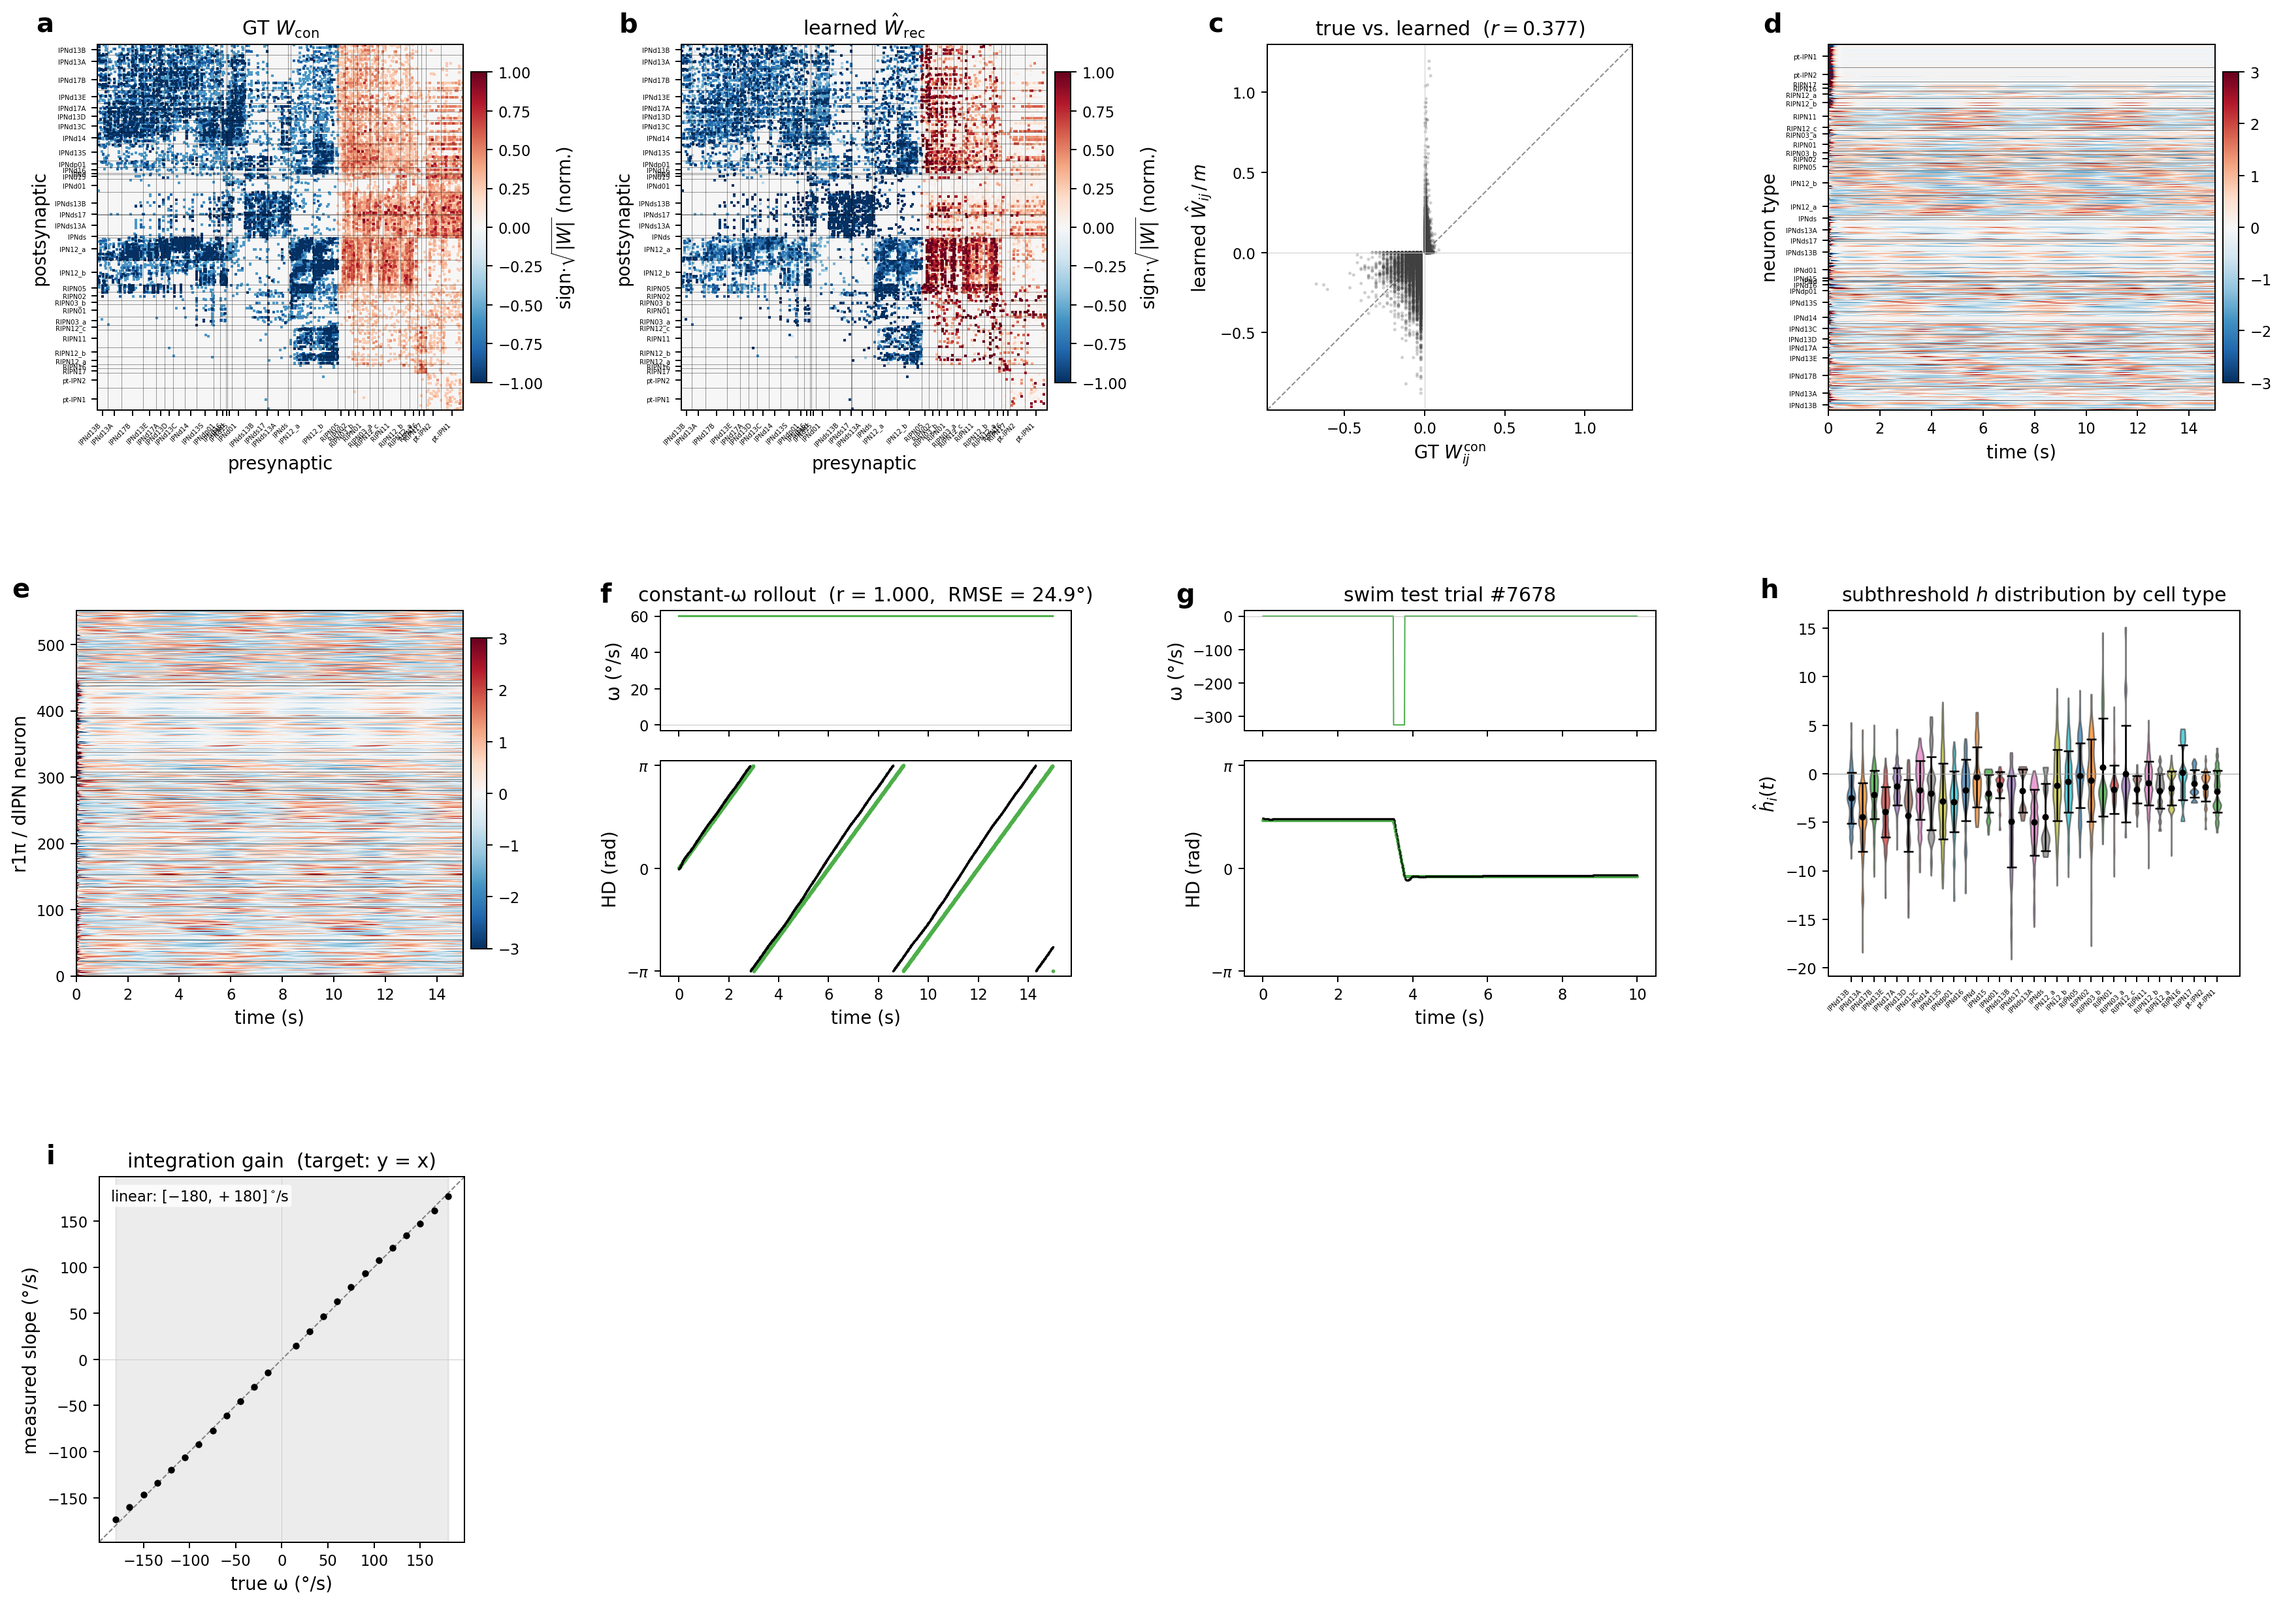
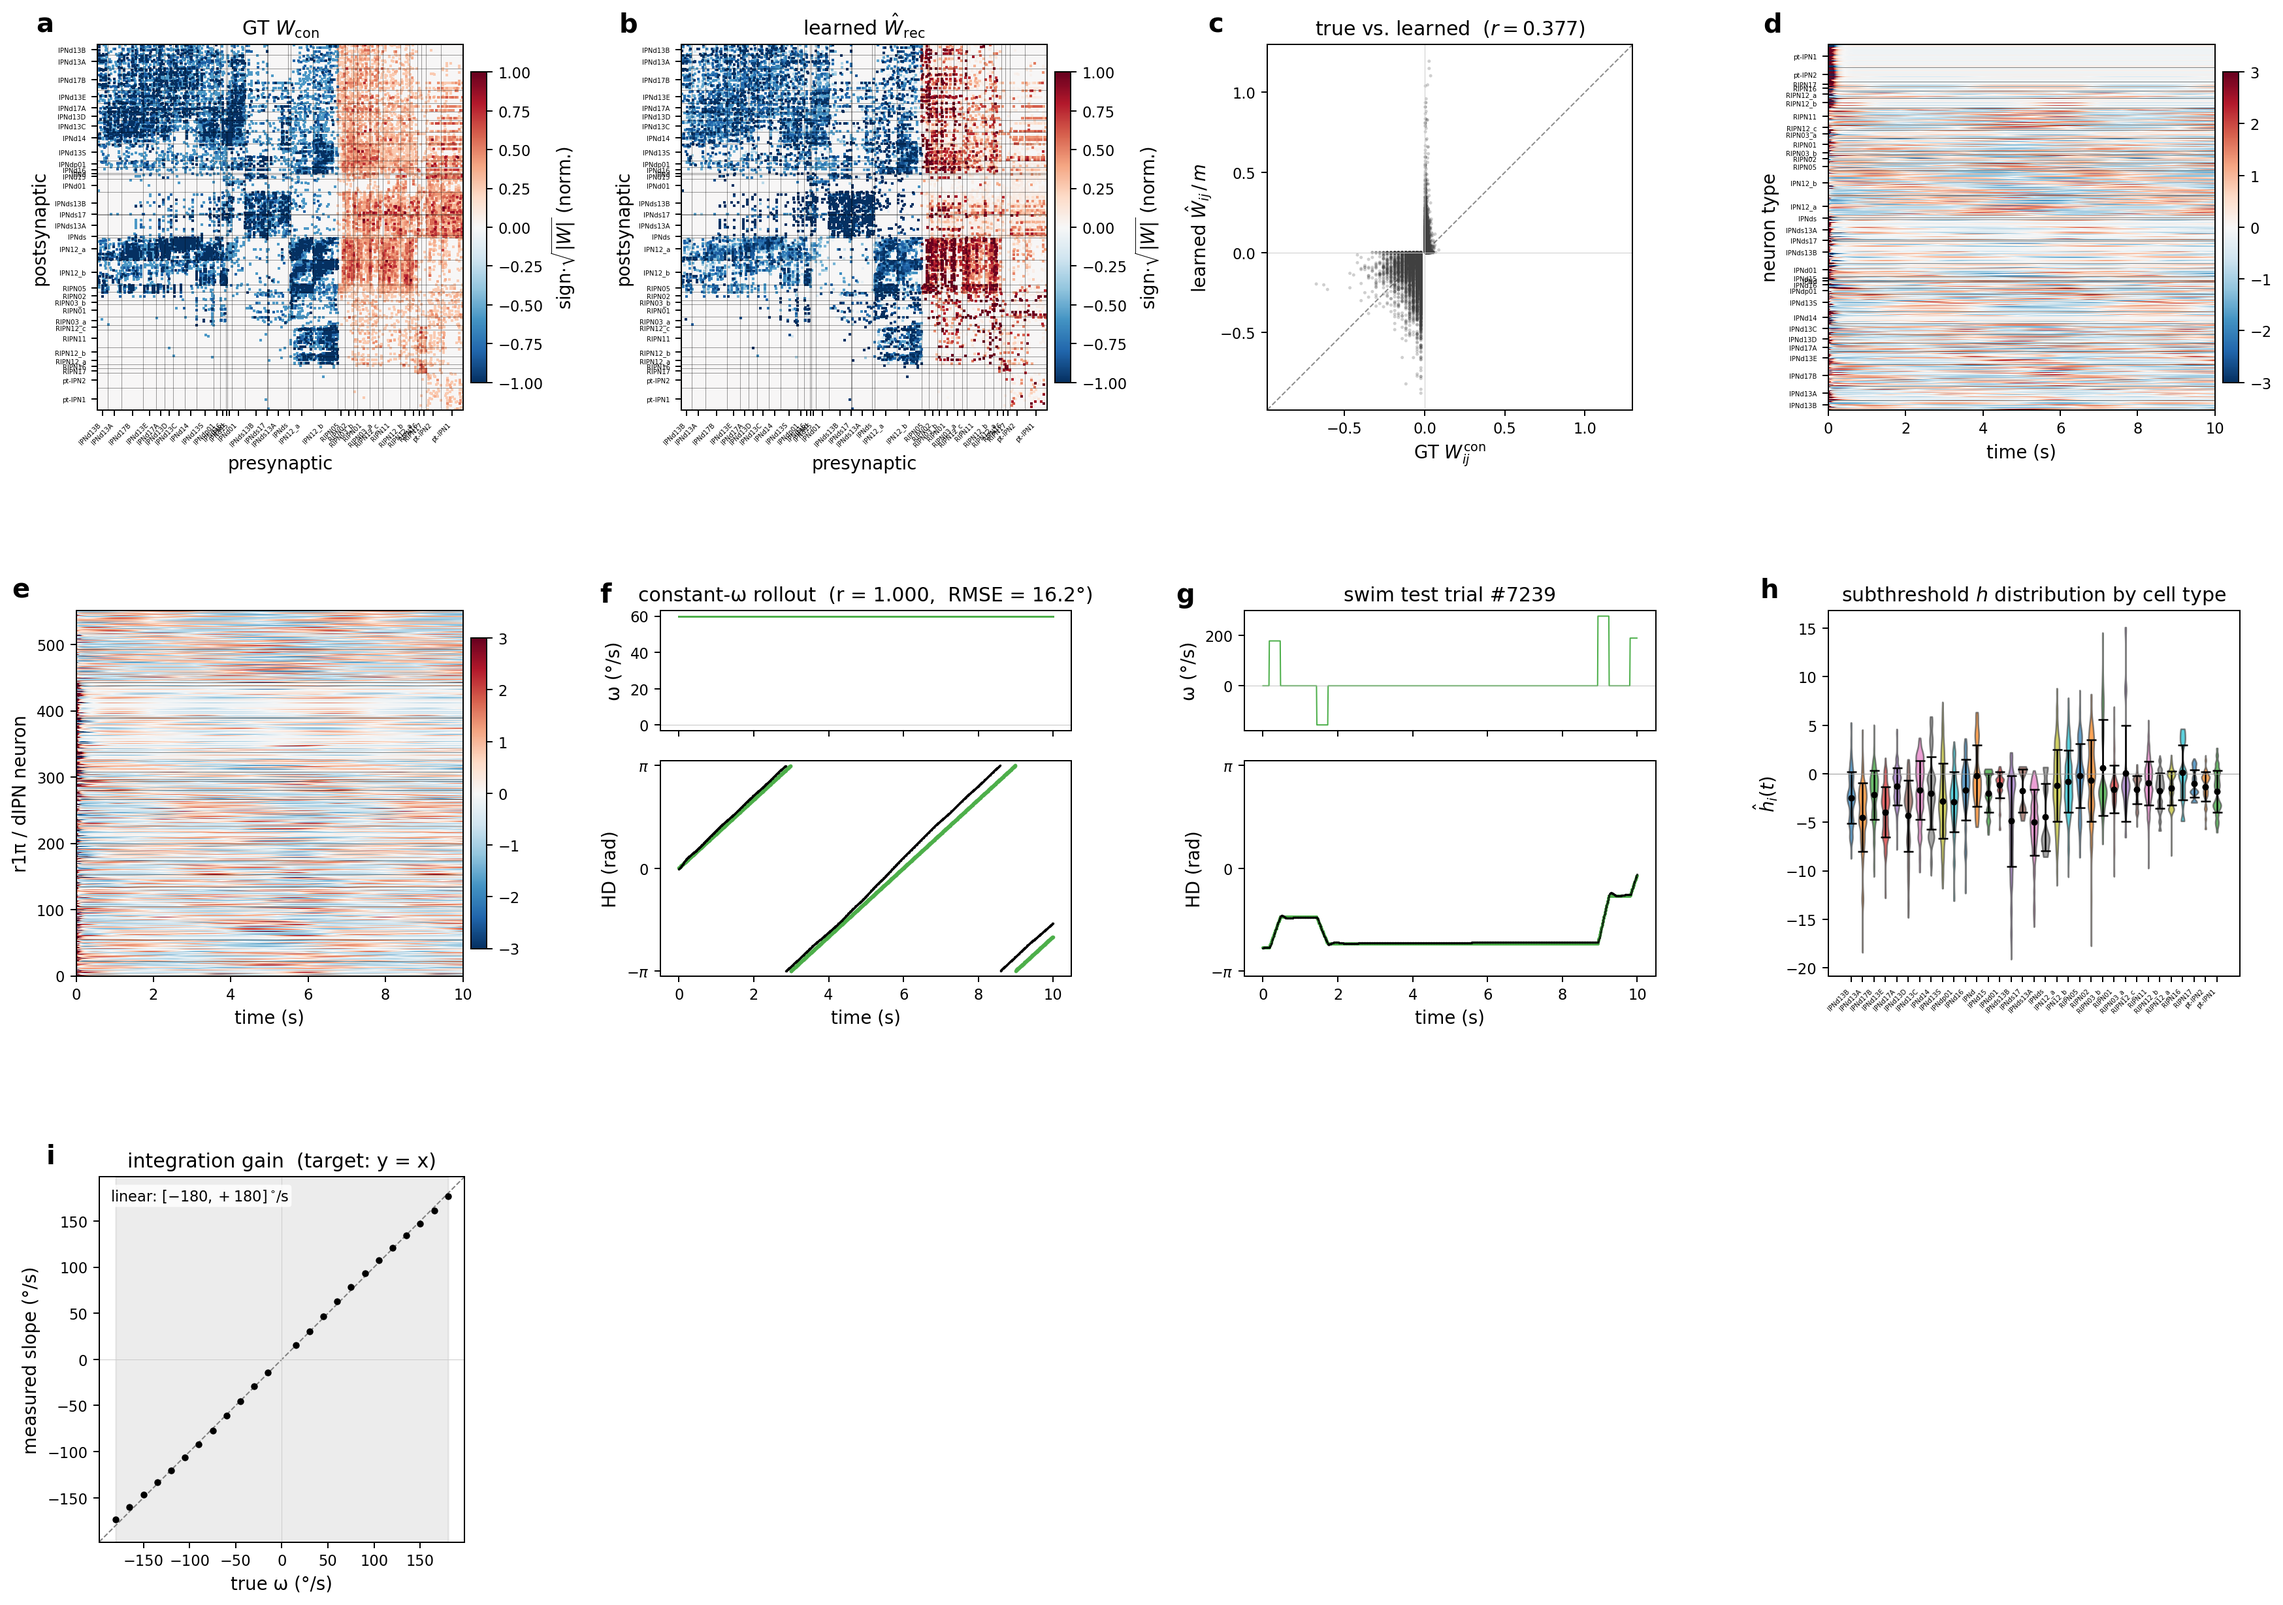
fig_evolution figures: rename ξ → d, match training-time snapshot trial selection
* plot_cx.py: panel g y-axis label switched from ξ to d (both call sites).
* fig_evolution.py: trial selection now samples K=32 candidates and picks the most informative one (max centred |y| amplitude), matching the training-time _build_test_trial in bump_attractor_eval.py — so the standalone figures pick the same example trial the in-training snapshots use (verified: translation picks trial #3875 as in tmp_training/evolution/epoch_7_03125.png).
* fig_evolution_ipn12_artr_pt1.py: default snapshot_n_steps 1500 → 1000, matching the training-time constant-ω rollout horizon.

Note: the rotation variant still picks trial 7239 vs the training-time 7678 — the trainer state at snapshot time appears to advance the RNG differently between iterations; the standalone seed = config.training.seed + 17 matches the training-time formula but not the iteration-specific state. The trial is still the most-informative among 32 candidates.

diff --git a/figures/zebrafish/fig_evolution.py b/figures/zebrafish/fig_evolution.py
@@ -185,10 +185,23 @@ def _load_model_and_rollouts(
             u_test = u_test[..., in_cols]
             y_test = y_test[..., out_cols]
     if trial_idx is None:
+        # Match _build_test_trial used by the training-time snapshot:
+        # sample K=32 candidates and keep the one whose centred target has
+        # the largest column-wise amplitude. Reproduces the trial shown in
+        # tmp_training/evolution/epoch_*.png exactly.
         if trial_seed is None:
             trial_seed = int(getattr(config.training, "seed", 0)) + 17
         rng = np.random.default_rng(trial_seed)
-        trial_idx = int(rng.integers(0, u_test.shape[0]))
+        n_test = u_test.shape[0]
+        K = int(min(32, n_test))
+        cand_idx = np.sort(rng.choice(n_test, size=K, replace=False))
+        y_cand = np.asarray(y_test[cand_idx])
+        if y_cand.size:
+            y_centred = y_cand - y_cand.mean(axis=1, keepdims=True)
+            scores = np.abs(y_centred).max(axis=(1, 2))
+            trial_idx = int(cand_idx[int(np.argmax(scores))])
+        else:
+            trial_idx = int(rng.integers(0, n_test))
     trial_idx = int(trial_idx) % u_test.shape[0]
     u_one = u_test[trial_idx]
     y_true = y_test[trial_idx]

diff --git a/src/connectome_gnn/plot_cx.py b/src/connectome_gnn/plot_cx.py
@@ -1380,7 +1380,7 @@ def _draw_translation_track(ax_drive, ax_track, t_axis, u_col, true_xi,
     )
     ax_track.plot(t_axis, true_xi, color=GT_COLOR, lw=1.2)
     ax_track.plot(t_axis, dec_xi,  color=PRED_COLOR, lw=0.8)
-    ax_track.set_ylabel(r"$\xi$", fontsize=LABEL_FS)
+    ax_track.set_ylabel(r"$d$", fontsize=LABEL_FS)
     ax_track.tick_params(labelsize=TICK_FS)
 
 
@@ -1594,7 +1594,7 @@ def _panel_trial_rollout(fig, subplotspec, test_trial: dict):
             ax_drive.set_title(title_prefix.rstrip(), fontsize=TITLE_FS)
         ax_track.plot(t_axis, y_true[:, xi_col_idx], color=GT_COLOR, lw=1.2)
         ax_track.plot(t_axis, y_pred[:, xi_col_idx], color=PRED_COLOR, lw=0.8)
-        ax_track.set_ylabel(r"$\xi$", fontsize=LABEL_FS)
+        ax_track.set_ylabel(r"$d$", fontsize=LABEL_FS)
         ax_track.tick_params(labelsize=TICK_FS)
 
     if has_xy:

diff --git a/figures/zebrafish/fig_evolution_ipn12_artr_pt1.py b/figures/zebrafish/fig_evolution_ipn12_artr_pt1.py
@@ -61,7 +61,7 @@ def main():
         default="/groups/saalfeld/home/allierc/GraphData",
         help="GraphData root; run dirs are <data_root>/log/zebrafish/<run>/.")
     p.add_argument("--out_dir", default=HERE)
-    p.add_argument("--snapshot_n_steps", type=int, default=1500)
+    p.add_argument("--snapshot_n_steps", type=int, default=1000)
     p.add_argument("--snapshot_omega_deg", type=float, default=60.0)
     p.add_argument("--trial_seed", type=int, default=None)
     p.add_argument("--trial_idx", type=int, default=None)
